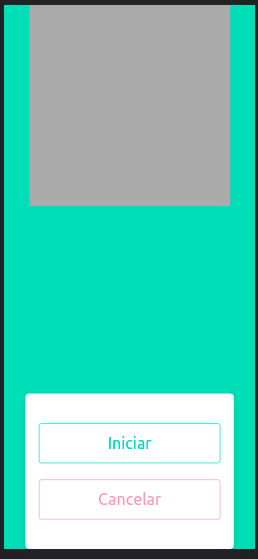
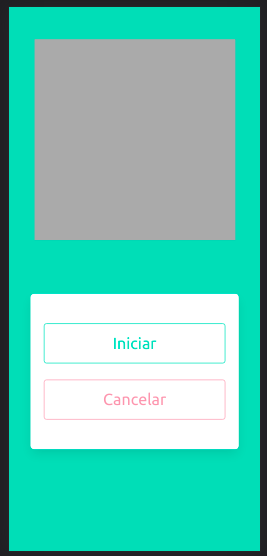
cellphone photo modified

diff --git a/public/cellphone.html b/public/cellphone.html
@@ -11,10 +11,10 @@
 </head>
 <body>
     <section class="hero is-primary is-fullheight">
-        <div id="v" class="mx-auto">
+        <div id="v" class="mx-auto mt-6">
             <span id="count"></span>
         </div>
-        <div class="container is-fluid  bg-light" style="margin-top: 5rem; flex-grow: 0;">
+        <div class="container is-fluid  bg-light" style="margin-top: 5rem;">
             <div class="box">
                 <button id="iniciar" class="button is-primary is-outlined is-large my-5 is-fullwidth">Iniciar</button>
                 <button id="cancelar" class="button is-danger is-outlined is-large my-5 is-fullwidth" disabled >Cancelar</button>
